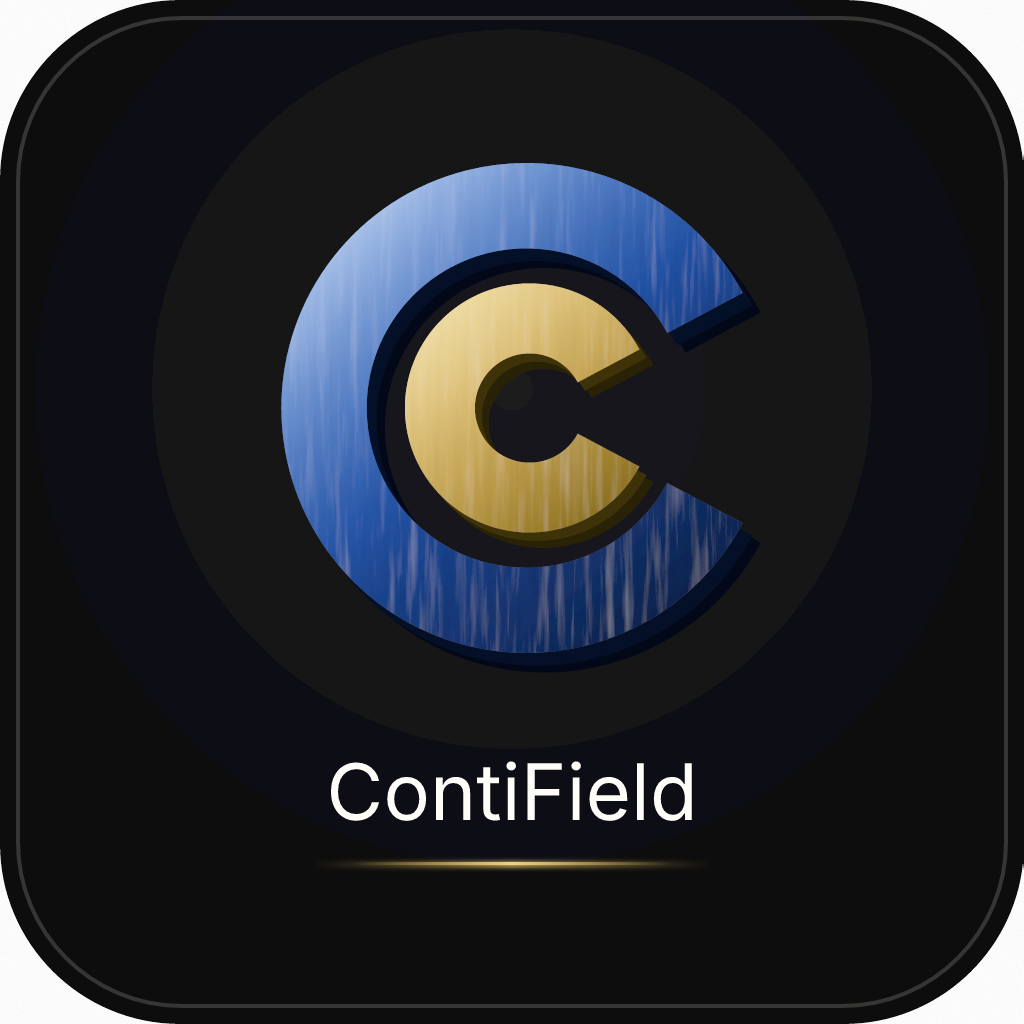
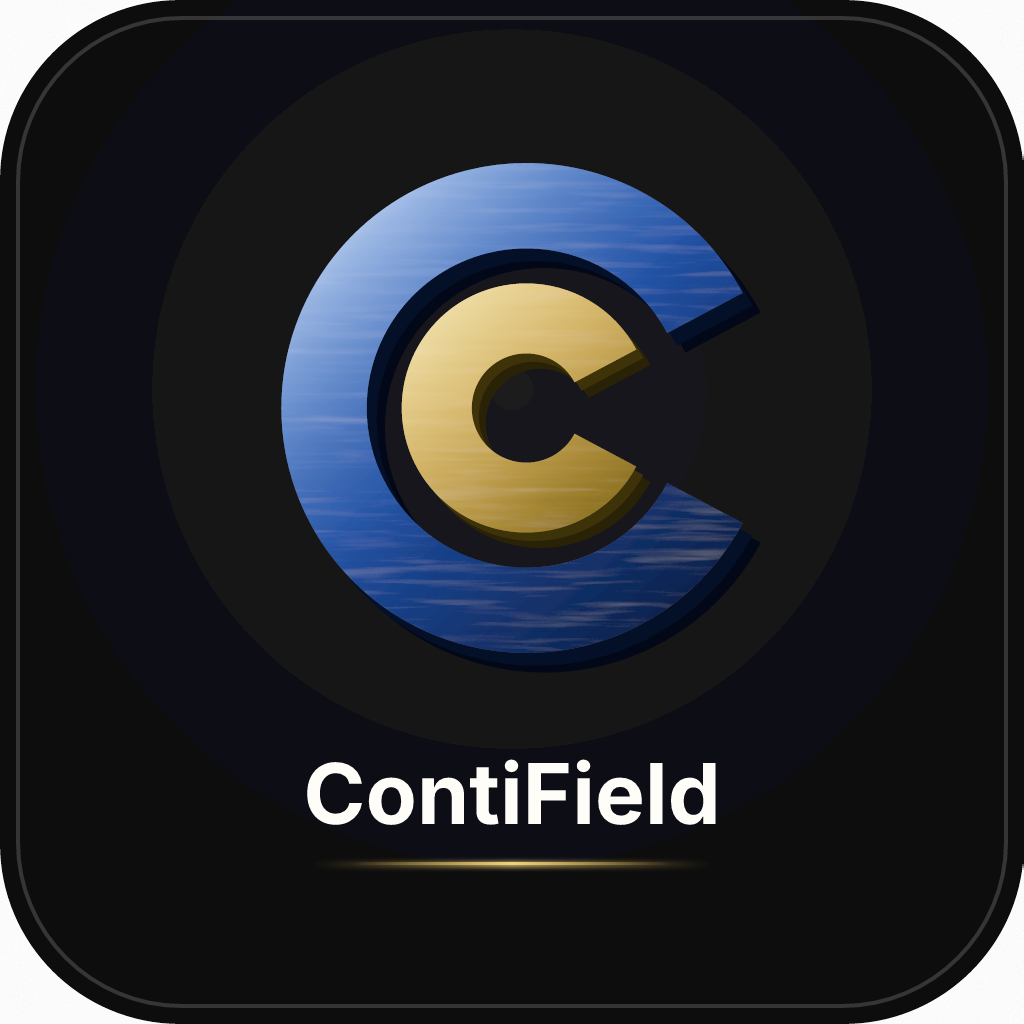
Center the gold C and match ContiCost metal grain
Drop the extra right offset so both Cs share one center,
switch the brush to horizontal grain, and thicken tile
wordmarks. Regenerates all brand PNGs.

diff --git a/components/cc-mark.tsx b/components/cc-mark.tsx
@@ -47,10 +47,10 @@ export function CcMark({ id, size = 72, className }: CcMarkProps) {
           <stop offset="100%" stopColor="#c9a34a" stopOpacity="0" />
         </linearGradient>
         <filter id={brush} x="-8%" y="-8%" width="116%" height="116%">
-          <feTurbulence type="fractalNoise" baseFrequency="0.85 0.06" numOctaves="3" seed="3" result="noise" />
+          <feTurbulence type="fractalNoise" baseFrequency="0.06 0.8" numOctaves="3" seed="3" result="noise" />
           <feColorMatrix type="saturate" values="0" in="noise" result="gray" />
           <feComponentTransfer in="gray" result="grain">
-            <feFuncA type="linear" slope="0.42" />
+            <feFuncA type="linear" slope="0.28" />
           </feComponentTransfer>
           <feComposite in="grain" in2="SourceAlpha" operator="in" result="clipped" />
           <feBlend in="SourceGraphic" in2="clipped" mode="overlay" />

diff --git a/lib/brand/cc-mark-geometry.test.ts b/lib/brand/cc-mark-geometry.test.ts
@@ -20,8 +20,8 @@ describe("cc-mark geometry", () => {
     const { center, goldCenter: gold, gap, blueStroke, goldStroke } = ccMetrics();
     assert.equal(center.cx, ccCenter().cx);
     assert.equal(center.cy, CC_VIEWBOX / 2);
-    assert.ok(gold.cx >= center.cx, "gold may sit slightly toward the opening");
-    assert.ok(GOLD_OFFSET_X < 1, "gold must not sit in the mouth");
+    assert.equal(gold.cx, center.cx);
+    assert.equal(GOLD_OFFSET_X, 0);
     assert.equal(gold.cy, center.cy);
     assert.ok(gap > 3.5 && gap < 5.5, `gap ${gap}`);
     assert.ok(blueStroke > goldStroke, "blue stroke should be heavier than gold");

diff --git a/lib/brand/cc-mark-geometry.ts b/lib/brand/cc-mark-geometry.ts
@@ -9,7 +9,7 @@ export const BLUE_INNER = 22.8;
 export const GOLD_OUTER = 17.8;
 export const GOLD_INNER = 7.8;
 /** Tiny optical nudge toward the opening — ContiCost sits ~5% right, not in the mouth. */
-export const GOLD_OFFSET_X = 0.45;
+export const GOLD_OFFSET_X = 0;
 export const GOLD_OFFSET_Y = 0;
 
 export type CcCenter = { cx: number; cy: number };
